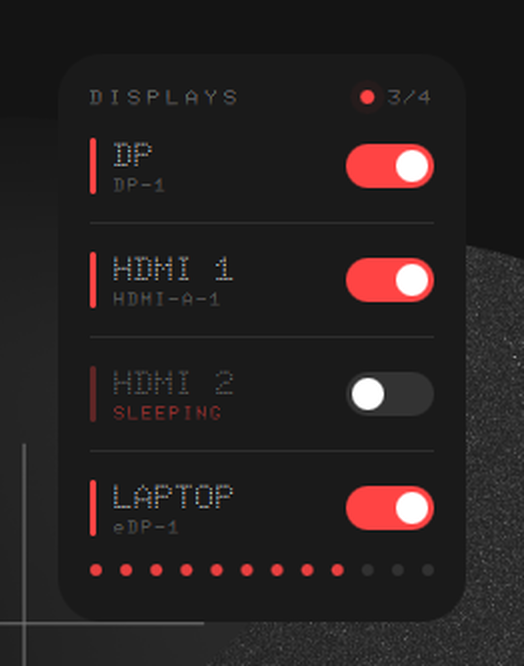
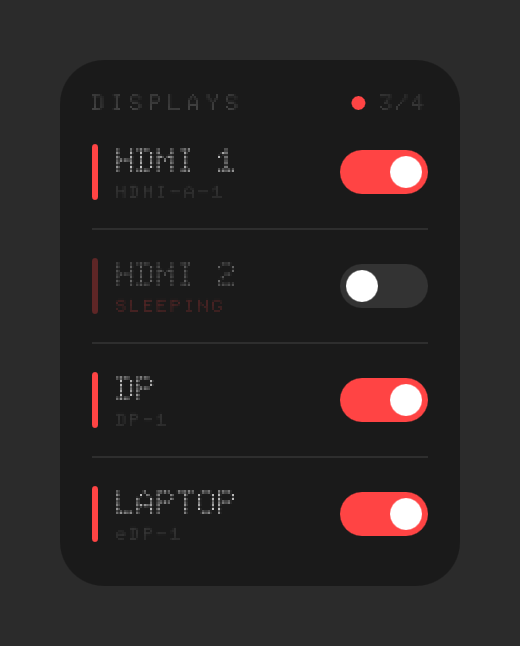
Let the accent be chosen, drop the bottom dot strip
The four looks now sit under a colour button. Pick anything and it replaces
that look's accent — the switches, the bar beside each name and the status
dot follow it, in both widgets — while the rest of the palette stays with
the look, so a colour sits on top of a design rather than replacing it.
"Use the look's own" clears it. Stored as accentColor; empty means the look
decides.

The twelve-dot strip along the bottom of the card is gone. Its dotOff token
went with it, having no other user, and the card is 14px shorter.

install.sh grows a --reload flag, because this cost three false bug reports
today: Plasma loads an applet's QML once and keeps it for the life of the
shell, so a widget already on screen goes on running the old code after an
upgrade. What makes it hard to read is that the settings dialog *is* read
fresh from disk — new settings pages appear while the widget itself ignores
them, which looks like the settings are broken rather than stale.

Documentation screenshots are regenerated from the widget itself with
grabToImage rather than cropped off a desktop, so they are pixel-exact and
no longer show the strip.

diff --git a/shared/ui/ConfigTheme.qml b/shared/ui/ConfigTheme.qml
@@ -3,12 +3,25 @@ import QtQuick.Controls as QQC2
 import QtQuick.Layouts
 import org.kde.kcmutils as KCM
 import org.kde.kirigami as Kirigami
+import org.kde.kquickcontrols as KQC
 
 KCM.SimpleKCM {
     id: page
 
     property string cfg_theme
     property string cfg_themeDefault: "nothing"
+    property string cfg_accentColor
+    property string cfg_accentColorDefault: ""
+
+    // what the colour button should show: the user's pick, or the look's own accent
+    readonly property color effectiveAccent: page.cfg_accentColor.length > 0
+                                             ? page.cfg_accentColor
+                                             : liveTheme.themeAccent
+
+    Theme {
+        id: liveTheme
+        name: page.cfg_theme
+    }
 
     // background / accent / text of one theme, so the choice is visible here
     component Swatch: Item {
@@ -97,8 +110,36 @@ KCM.SimpleKCM {
 
         Item { Kirigami.FormData.isSection: true }
 
+        RowLayout {
+            Kirigami.FormData.label: i18n("Accent colour:")
+            spacing: Kirigami.Units.smallSpacing
+
+            KQC.ColorButton {
+                id: accentButton
+                showAlphaChannel: false
+                dialogTitle: i18n("Accent colour")
+                color: page.effectiveAccent
+                onAccepted: (picked) => page.cfg_accentColor = picked.toString()
+            }
+
+            QQC2.Button {
+                text: i18n("Use the look's own")
+                enabled: page.cfg_accentColor.length > 0
+                icon.name: "edit-undo-symbolic"
+                onClicked: page.cfg_accentColor = ""
+            }
+        }
+
         Hint {
-            text: i18n("Only colours and typefaces change. Sizes, spacing and motion stay the same in every look.")
+            text: page.cfg_accentColor.length > 0
+                  ? i18n("Your colour, on top of the chosen look. Everything the widget paints in colour follows it: the switches, the bar beside each name and the status dot.")
+                  : i18n("Following the chosen look. Pick a colour to override it.")
+        }
+
+        Item { Kirigami.FormData.isSection: true }
+
+        Hint {
+            text: i18n("Only colours and typefaces change between looks. Sizes, spacing and motion stay the same in every one.")
         }
     }
 }

diff --git a/shared/ui/Theme.qml b/shared/ui/Theme.qml
@@ -16,6 +16,8 @@ Item {
     property string name: "nothing"
     // the bundled dot-matrix family, resolved by DisplayController
     property string dotFamily: "monospace"
+    // empty means "use the accent this look ships with"
+    property string accentOverride: ""
 
     readonly property bool isKde: name === "kde"
     readonly property bool isMinimal: name === "minimal"
@@ -35,8 +37,6 @@ Item {
                                 Kirigami.Theme.textColor.b, 0.16),
             trackOff:   Qt.rgba(Kirigami.Theme.textColor.r, Kirigami.Theme.textColor.g,
                                 Kirigami.Theme.textColor.b, 0.22),
-            dotOff:     Qt.rgba(Kirigami.Theme.textColor.r, Kirigami.Theme.textColor.g,
-                                Kirigami.Theme.textColor.b, 0.18),
             danger:     Kirigami.Theme.negativeTextColor
         }
         // no colour at all: the "on" state is simply brighter than the "off" one.
@@ -49,7 +49,6 @@ Item {
             knob:       "#141414",
             divider:    "#272727",
             trackOff:   "#2c2c2c",
-            dotOff:     "#2c2c2c",
             danger:     "#9a9a96"
         }
         if (isNeon) return {
@@ -59,7 +58,6 @@ Item {
             knob:       "#05060f",
             divider:    "#14243d",
             trackOff:   "#14243d",
-            dotOff:     "#14243d",
             danger:     "#ff3ea5"
         }
         return {
@@ -69,18 +67,17 @@ Item {
             knob:       "#ffffff",
             divider:    "#2e2e2e",
             trackOff:   "#333333",
-            dotOff:     "#333333",
             danger:     "#ff4444"
         }
     }
 
     readonly property color background: palette.background
-    readonly property color accent: palette.accent
+    readonly property color themeAccent: palette.accent
+    readonly property color accent: accentOverride.length > 0 ? accentOverride : themeAccent
     readonly property color onSurface: palette.onSurface
     readonly property color knob: palette.knob
     readonly property color divider: palette.divider
     readonly property color trackOff: palette.trackOff
-    readonly property color dotOff: palette.dotOff
     readonly property color danger: palette.danger
 
     readonly property string fontFamily: isKde || isMinimal

diff --git a/shared/ui/DisplayCard.qml b/shared/ui/DisplayCard.qml
@@ -13,7 +13,7 @@ Item {
     readonly property int rowCount: Math.max(1, controller ? controller.outputs.count : 0)
 
     implicitWidth: 220
-    implicitHeight: 57 * rowCount + 49 + 2 * margin
+    implicitHeight: 57 * rowCount + 35 + 2 * margin
 
     Rectangle {
         anchors.fill: parent
@@ -110,31 +110,6 @@ Item {
                 font.letterSpacing: card.theme ? card.theme.labelSpacing : 1.5
                 font.family: card.theme ? card.theme.fontFamily : "monospace"
                 wrapMode: Text.WordWrap
-            }
-
-            // ── dot-matrix strip ──────────────────────────────────────
-            Row {
-                width: parent.width
-                height: 6
-                spacing: Math.max(0, (parent.width - (12 * 6)) / 11)
-
-                Repeater {
-                    model: 12
-
-                    delegate: Rectangle {
-                        width: 6
-                        height: 6
-                        radius: 3
-                        // lit fraction of the strip = fraction of outputs that are on
-                        color: card.controller && card.controller.outputs.count > 0
-                               && index < Math.round(12 * card.controller.enabledCount
-                                                     / card.controller.outputs.count)
-                               ? (card.theme ? card.theme.accent : "#ff4444")
-                               : (card.theme ? card.theme.dotOff : "#333333")
-                        opacity: 0.9
-                        Behavior on color { ColorAnimation { duration: 150 } }
-                    }
-                }
             }
         }
     }

diff --git a/shared/ui/DisplayController.qml b/shared/ui/DisplayController.qml
@@ -33,6 +33,7 @@ Item {
 
     // ── theme ─────────────────────────────────────────────────────────────
     property alias themeName: uiTheme.name
+    property alias accentOverride: uiTheme.accentOverride
     readonly property alias theme: uiTheme
 
     Theme {

diff --git a/desktop/contents/ui/main.qml b/desktop/contents/ui/main.qml
@@ -25,6 +25,7 @@ PlasmoidItem {
         id: ctl
 
         themeName: Plasmoid.configuration.theme
+        accentOverride: Plasmoid.configuration.accentColor
         customNames: root.customNames
 
         // hand the settings page the list of connectors it can rename

diff --git a/panel/contents/ui/main.qml b/panel/contents/ui/main.qml
@@ -24,6 +24,7 @@ PlasmoidItem {
         id: ctl
 
         themeName: Plasmoid.configuration.theme
+        accentOverride: Plasmoid.configuration.accentColor
         customNames: root.customNames
 
         // hand the settings page the list of connectors it can rename

diff --git a/README.md b/README.md
@@ -28,7 +28,7 @@ which ones are live, and refuses to let you turn off the last one.
 | All displays on | One display switched off | Four displays connected |
 |:---:|:---:|:---:|
 | <img src="docs/hero.png" width="260" alt="Two displays, both on"> | <img src="docs/state-off.png" width="260" alt="Laptop panel off, its toggle reads SLEEPING"> | <img src="docs/state-multi.png" width="260" alt="Four displays with two HDMI outputs numbered"> |
-| The counter reads `2/2` and the strip along the bottom is fully lit. | The laptop panel reads `SLEEPING`. The remaining display's switch dims — it is the last one on and cannot be turned off. | Rows appear per output. Two HDMI monitors are numbered `HDMI 1` / `HDMI 2`; the counter reads `3/4`. |
+| The counter reads `2/2` and both switches are lit. | The laptop panel reads `SLEEPING`. The remaining display's switch dims — it is the last one on and cannot be turned off. | Rows appear per output. Two HDMI monitors are numbered `HDMI 1` / `HDMI 2`; the counter reads `3/4`. |
 
 ## Features
 
@@ -46,9 +46,8 @@ which ones are live, and refuses to let you turn off the last one.
   when you plug the same display in again.
 - **Four looks.** Nothing, Classic KDE, Minimal, Neon. Colours and typefaces change; sizes,
   spacing and motion do not.
-- **Nothing OS styling by default.** Dot-matrix type, red accents, a status dot that pings like
-  radar while any display is live, and a bottom strip whose lit fraction is the fraction of
-  displays that are on.
+- **Nothing OS styling by default.** Dot-matrix type, red accents, and a status dot that pings
+  like radar while any display is live.
 
 ## Four looks
 
@@ -67,6 +66,13 @@ Both widgets carry the same four.
 
 Minimal is dark like the others on purpose: the panel widget draws straight onto the panel,
 where a light palette would disappear.
+
+### Your own colour
+
+Under the four looks there is a colour button. Pick anything and it replaces that look's accent
+— the switches, the bar beside each name and the status dot all follow it, in both widgets.
+**Use the look's own** puts it back. The rest of the palette stays with the look, so a colour
+sits on top of a design rather than replacing it.
 
 ## Naming your displays
 
@@ -136,6 +142,12 @@ git clone https://github.com/fatihaydost/nothing-display-toggle.git
 cd nothing-display-toggle
 ./install.sh          # builds and installs both
 ```
+
+> **Upgrading a widget that is already on screen?** Plasma loads an applet's QML once and keeps
+> it for the life of the shell, so the copy you are looking at goes on running the old code
+> until Plasma restarts. This is easy to misread, because the settings dialog *is* read fresh
+> from disk: new settings pages appear while the widget itself ignores them. Run
+> `./install.sh --reload`, or `systemctl --user restart plasma-plasmashell.service`.
 
 Then right-click the **desktop** → **Add Widgets…** → drag *Nothing Display Toggle* out, or
 right-click the **panel** → **Add Widgets…** → *Nothing Display Toggle (Panel)*.
